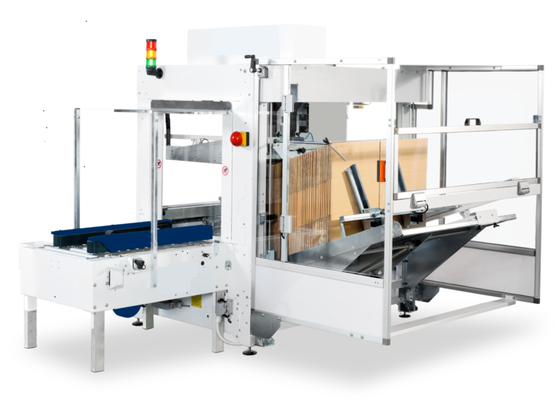
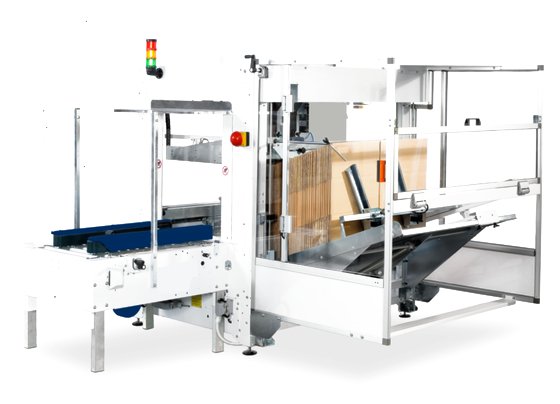
Hero showcase: larger dominant product images, transparent erector fix

diff --git a/styles.css b/styles.css
@@ -91,13 +91,15 @@ footer .brand-logo{height:52px;max-width:250px}
 .art-tag{display:block;padding:22px 26px 0;font-size:9.5px;letter-spacing:.18em;color:#8fa6b8}
 /* product showcase carousel */
 .showcase{position:relative;padding:8px 8px 0}
-.slides{position:relative;height:clamp(360px,30vw,440px);max-width:520px;margin-inline:auto}
-.slide{position:absolute;inset:0;margin:0;display:flex;flex-direction:column;align-items:center;justify-content:center;gap:10px;
+.slides{position:relative;height:clamp(460px,36vw,560px);max-width:640px;margin-inline:auto}
+.slide{position:absolute;inset:0;margin:0;display:flex;flex-direction:column;align-items:center;justify-content:center;gap:6px;
   opacity:0;transform:scale(.96);transition:opacity .7s ease,transform .7s cubic-bezier(.2,.7,.3,1);pointer-events:none}
 .slide.is-active{opacity:1;transform:none;pointer-events:auto}
-.slide img{max-height:min(360px,27vw);width:auto;max-width:92%;object-fit:contain;
+.slide::before{content:'';position:absolute;width:min(480px,92%);aspect-ratio:1;border-radius:50%;z-index:0;
+  background:radial-gradient(circle,rgba(255,121,66,.20),transparent 65%)}
+.slide img{position:relative;z-index:1;max-height:clamp(360px,34vw,480px);width:auto;max-width:98%;object-fit:contain;
   filter:drop-shadow(0 24px 30px rgba(0,0,0,.45))}
-.slide figcaption{font-family:'Sora',sans-serif;font-size:12px;font-weight:700;letter-spacing:.14em;
+.slide figcaption{position:relative;z-index:1;font-family:'Sora',sans-serif;font-size:12px;font-weight:700;letter-spacing:.14em;
   text-transform:uppercase;color:#ffd9bd}
 .show-btn{position:absolute;top:42%;width:44px;height:44px;border-radius:50%;border:1px solid rgba(255,255,255,.3);
   background:rgba(255,255,255,.1);color:#fff;font-size:22px;line-height:1;cursor:pointer;
